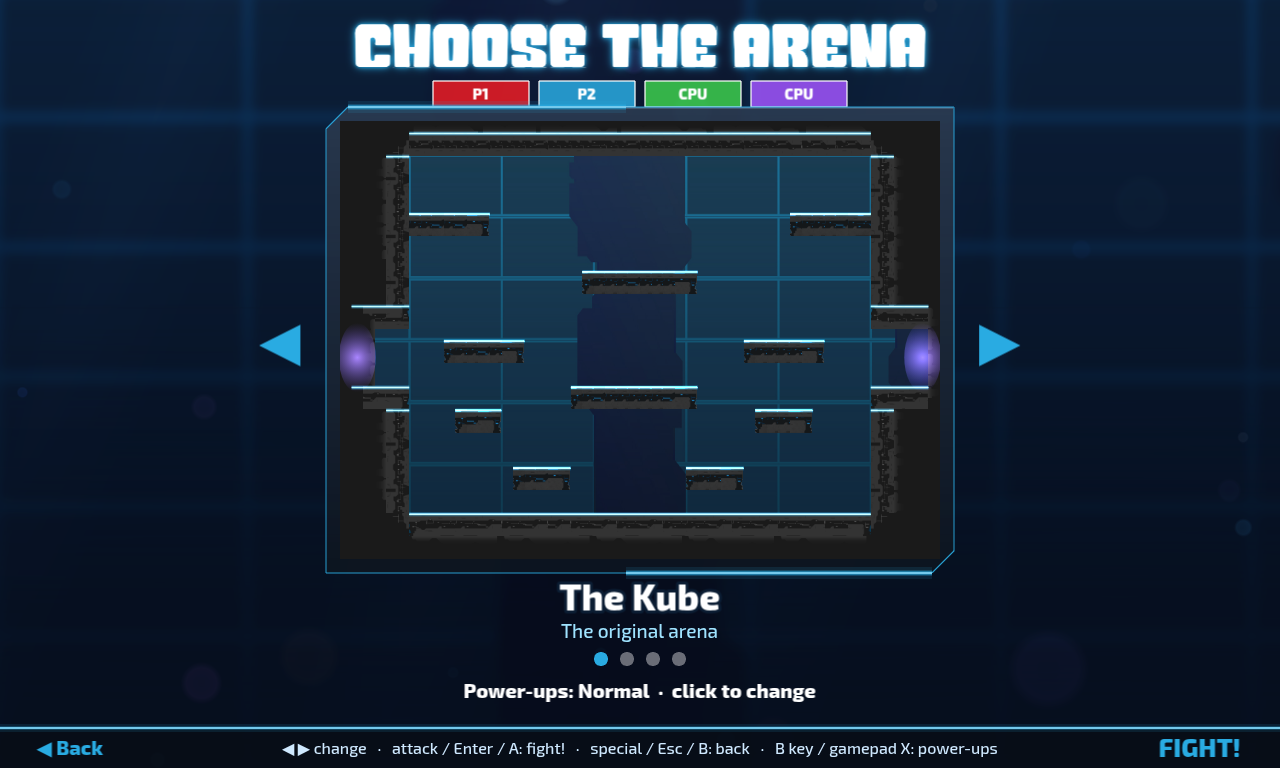
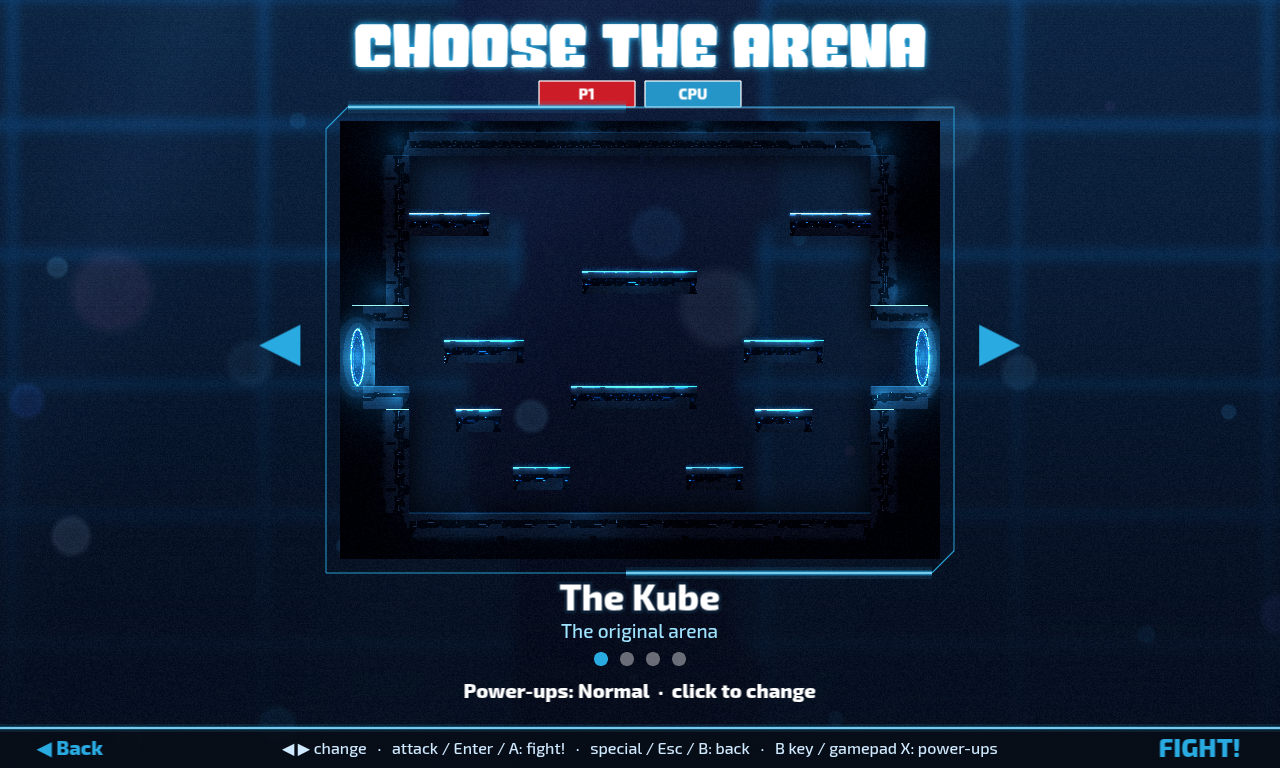
Arena select: the preview is the arena itself, rendered live by GameScene (lights, glow, portals, grade) over the Kube backdrop

diff --git a/web/src/scenes/ArenaScene.ts b/web/src/scenes/ArenaScene.ts
@@ -24,6 +24,8 @@ export class ArenaScene extends Phaser.Scene {
   private arena = 0;
   private bonuses: BonusRate = 'normal';
   private preview!: Phaser.GameObjects.Image;
+  /** The preview is GameScene's live render of the arena, not the picture. */
+  private live = false;
   private frame!: Phaser.GameObjects.Graphics;
   private nameText!: Phaser.GameObjects.Text;
   private blurbText!: Phaser.GameObjects.Text;
@@ -41,7 +43,10 @@ export class ArenaScene extends Phaser.Scene {
 
   create(): void {
     const { width, height } = this.scale;
-    kubeBackdrop(this, 0.3);
+    // The preview is the arena itself, rendered by GameScene into the frame
+    // (WebGL: lit, with the backdrop behind it); the canvas renderer keeps the drawn picture.
+    this.live = this.sys.renderer.type === Phaser.WEBGL;
+    kubeBackdrop(this, this.live ? 0 : 0.3);
     heading(this, width / 2, 46, 'Choose the arena', 54);
 
     // Who is fighting: a chip per robot in its team colour.
@@ -65,6 +70,7 @@ export class ArenaScene extends Phaser.Scene {
     arrow(width / 2 - PREVIEW_W / 2 - 60, '◀', -1);
     arrow(width / 2 + PREVIEW_W / 2 + 60, '▶', 1);
     this.preview.setInteractive({ useHandCursor: true }).on('pointerdown', () => this.go());
+    if (this.live) this.preview.setAlpha(0);
 
     const below = PREVIEW_Y + this.preview.height / 2;
     this.nameText = this.add.text(width / 2, below + 38, '', { ...font(36), stroke: '#0b1d33', strokeThickness: 6 }).setOrigin(0.5);
@@ -114,7 +120,8 @@ export class ArenaScene extends Phaser.Scene {
     this.registry.set('arena', this.arena);
     const { width } = this.scale;
     this.preview.setTexture(this.thumbnail(this.arena));
-    if (d !== 0) {
+    if (this.live) this.showArena();
+    else if (d !== 0) {
       this.preview.setX(width / 2 + d * 40).setAlpha(0.3);
       this.tweens.add({ targets: this.preview, x: width / 2, alpha: 1, duration: 180, ease: 'Cubic.out' });
     }
@@ -123,7 +130,7 @@ export class ArenaScene extends Phaser.Scene {
     // The preview set in a Kube plate, lit top left and bottom right.
     const fx = width / 2 - w / 2 - 14;
     const fy = PREVIEW_Y - h / 2 - 14;
-    drawPlate(this.frame.clear(), fx, fy, w + 28, h + 28, { cut: 22, edge: 0x29abe2 });
+    drawPlate(this.frame.clear(), fx, fy, w + 28, h + 28, { cut: 22, edge: 0x29abe2, alpha: this.live ? 0 : 0.92 });
     drawStrip(this.frame, fx + 22, fy, fx + w * 0.5, fy, 0x29abe2, 3);
     drawStrip(this.frame, fx + w * 0.5, fy + h + 28, fx + w + 6, fy + h + 28, 0x29abe2, 3);
     this.nameText.setText(ARENA_INFO[this.arena].name);
@@ -140,11 +147,26 @@ export class ArenaScene extends Phaser.Scene {
   private go(): void {
     if (this.fighters.length < 2) { this.back(); return; }
     const setup: MatchSetup = { fighters: this.fighters, arena: this.arena, bonuses: this.bonuses };
-    shutter(this, () => this.scene.start('Game', setup));
+    shutter(this, () => { this.scene.stop('Game'); this.scene.start('Game', setup); });
   }
 
   private back(): void {
-    shutter(this, () => this.scene.start('Join'));
+    shutter(this, () => { this.scene.stop('Game'); this.scene.start('Join'); });
+  }
+
+  /** Renders the chosen arena live in the frame (GameScene in preview mode, under this scene). */
+  private showArena(): void {
+    const { width } = this.scale;
+    const w = this.preview.width;
+    const h = this.preview.height;
+    const setup: MatchSetup = {
+      fighters: [], arena: this.arena, bonuses: this.bonuses,
+      preview: { x: width / 2 - w / 2, y: PREVIEW_Y - h / 2, width: w, height: h },
+    };
+    const game = this.scene.get('Game');
+    if (game.sys.isActive()) game.scene.restart(setup);
+    else this.scene.launch('Game', setup);
+    this.scene.bringToTop();
   }
 
   /**

diff --git a/web/src/scenes/GameScene.ts b/web/src/scenes/GameScene.ts
@@ -137,6 +137,8 @@ export class GameScene extends Phaser.Scene implements ArenaHooks {
     this.createEffects();
     this.portals = new PortalFx(this, this.warpZones);
 
+    if (setup.preview) { this.createPreview(setup.preview); return; }
+
     let humans = 0;
     this.specs.forEach((spec, i) => {
       let controller: Controller;
@@ -226,6 +228,35 @@ export class GameScene extends Phaser.Scene implements ArenaHooks {
       this.portals.destroy();
       for (const k of this.fighters) k.destroy();
     });
+  }
+
+  // ------------------------------------------------------------ arena preview
+  /** Set while the scene only shows the arena for the arena select (MatchSetup.preview). */
+  private preview = false;
+
+  /** The arena alone, fitted into `rect`: lights, glow, portals and screen grade, nothing else. */
+  private createPreview(rect: NonNullable<MatchSetup['preview']>): void {
+    this.preview = true;
+    const cam = this.cameras.main;
+    const mapW = this.map.width * this.map.tileWidth;
+    const mapH = this.map.height * this.map.tileHeight;
+    cam.setViewport(rect.x, rect.y, rect.width, rect.height);
+    cam.setZoom(Math.min(rect.width / mapW, rect.height / mapH)).centerOn(mapW / 2, mapH / 2);
+    this.setupScreenFx();
+    this.setupLights();
+    this.events.once(Phaser.Scenes.Events.SHUTDOWN, () => {
+      this.preview = false;
+      this.debris.destroy();
+      this.portals.destroy();
+    });
+  }
+
+  private updatePreview(deltaMs: number): void {
+    const now = this.clock += deltaMs;
+    this.particles.update(deltaMs);
+    this.impact.update(now, deltaMs);
+    this.portals.update(now, deltaMs);
+    this.drawGlows();
   }
 
   // ---------------------------------------------------------------------- map
@@ -556,6 +587,7 @@ export class GameScene extends Phaser.Scene implements ArenaHooks {
   // ------------------------------------------------------------------ update
   update(_time: number, deltaMs: number): void {
     if (this.paused) return;
+    if (this.preview) { this.updatePreview(deltaMs); return; }
     // Debug time controls: slow motion, or frozen and stepped frame by frame.
     const d = this.debugState;
     let dtMs = Math.min(deltaMs, 50) * d.timeScale;

diff --git a/web/src/game/Match.ts b/web/src/game/Match.ts
@@ -96,6 +96,11 @@ export interface MatchSetup {
   /** Index into ARENA_INFO / ARENAS. */
   arena: number;
   bonuses: BonusRate;
+  /**
+   * Arena select preview: no robots, music, HUD or rules; the whole arena
+   * fitted into this screen rectangle, lit and animated as in a match.
+   */
+  preview?: { x: number; y: number; width: number; height: number };
 }
 
 /** Faction names, by team (same order as SLOT_COLORS). */
